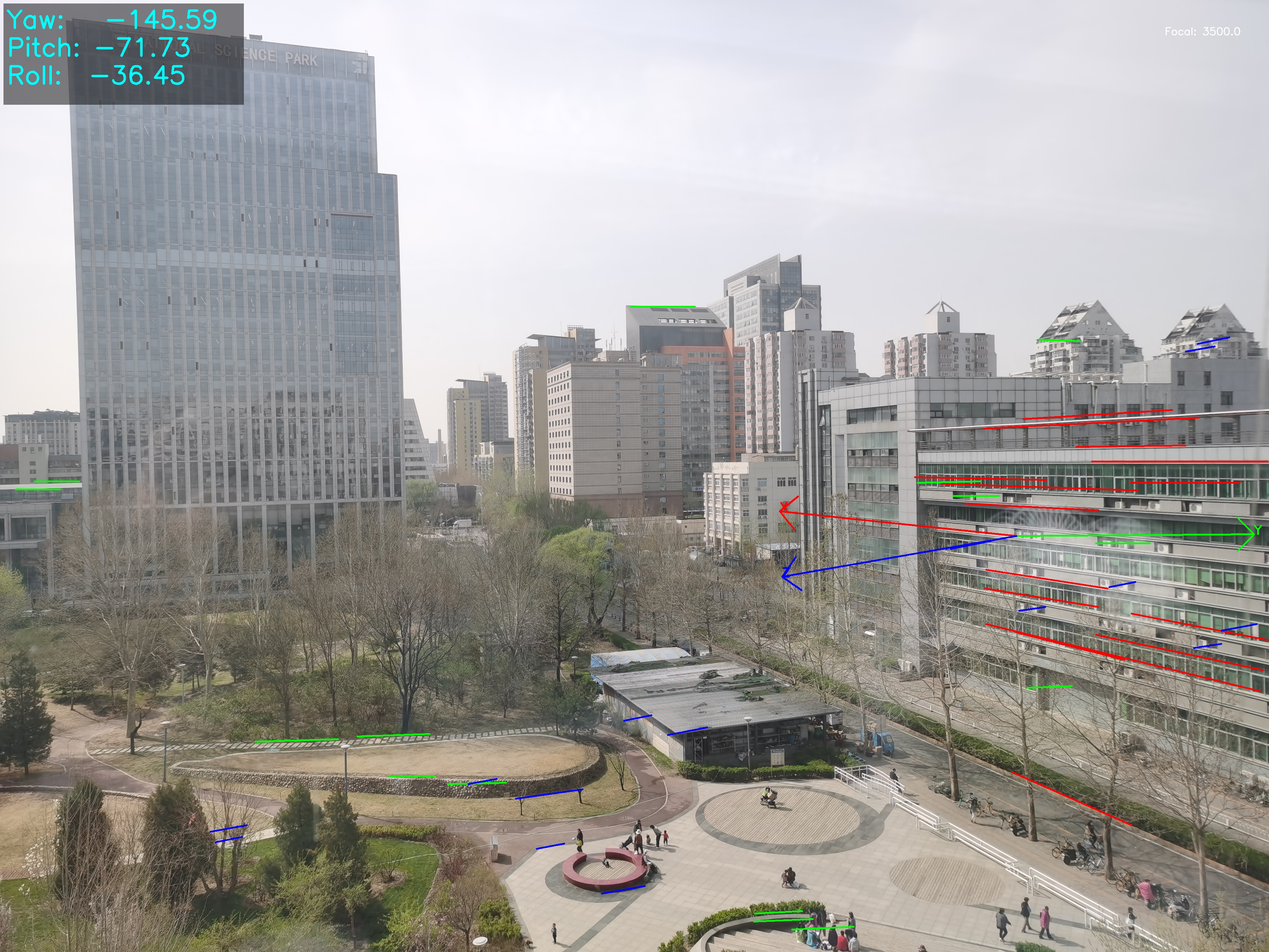
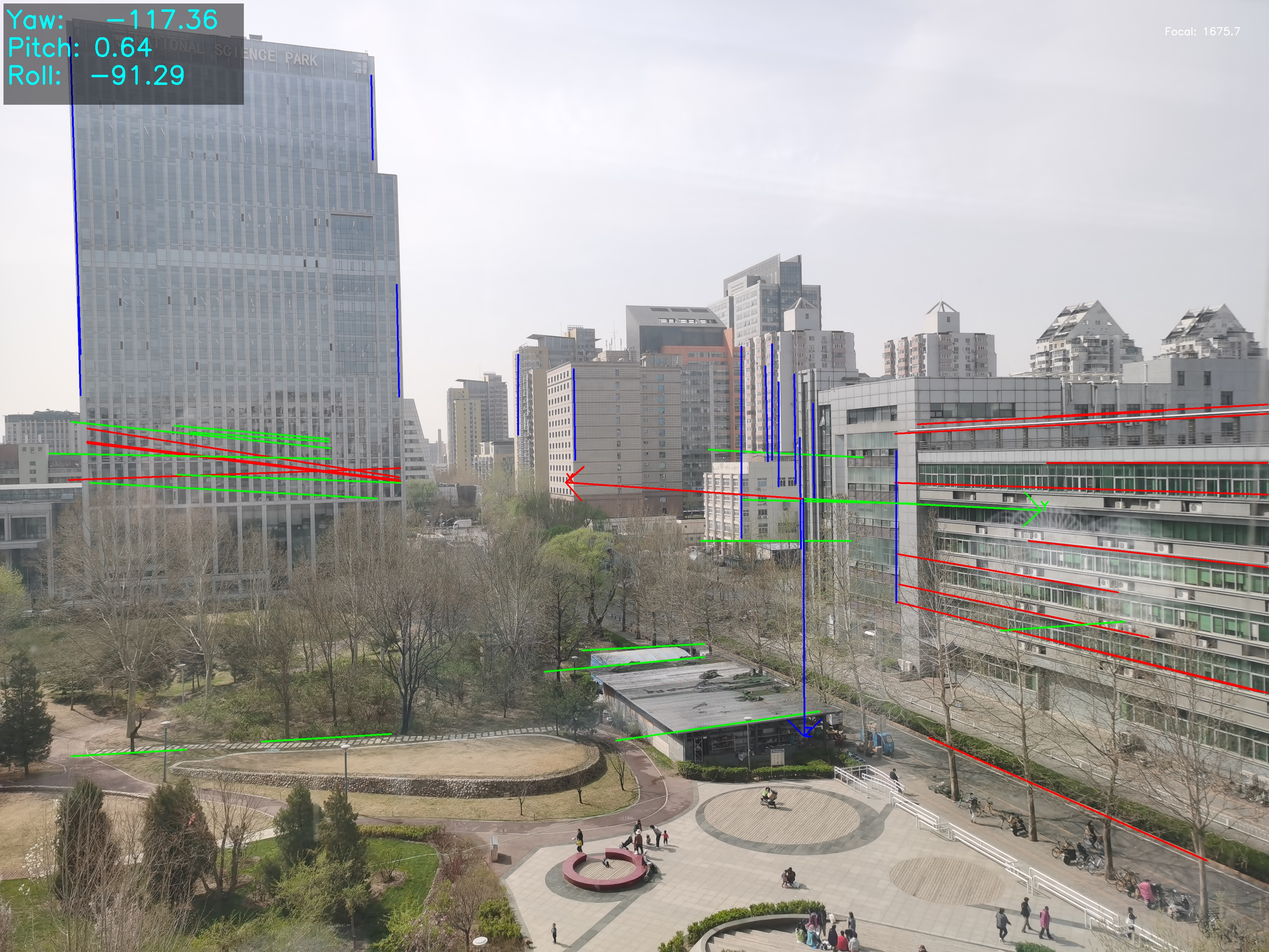
feat: 優化室外與高噪點場景的消失點偵測與座標估計
- 演算法：導入 CLAHE 與 Adaptive Canny (Otsu) 增強邊緣對比度。
- 策略：實作 Angle Partitioning，強制分離垂直線段群，解決室外場景 Z 軸消失點被大量水平結構淹沒的問題。
- 參數：調高 `minLineLength` 過濾非結構雜訊，並放寬原點估計的邊界限制以適應空拍視角。
- 文檔：更新 README.md，加入 5/24 演算法優化紀錄與 Pipeline 資料流圖示，並完成 TODO.md 的 5/24 任務。

diff --git a/src/vp_calib/engine.py b/src/vp_calib/engine.py
@@ -19,7 +19,14 @@ def get_hough_lines_cv(image: np.ndarray, line_length: int, line_gap: int) -> Tu
         gray = cv2.cvtColor(image, cv2.COLOR_RGB2GRAY)
     else:
         gray = image
-    edges = cv2.Canny(gray, 40, 120, apertureSize=3)
+        
+    clahe = cv2.createCLAHE(clipLimit=2.0, tileGridSize=(8, 8))
+    gray_clahe = clahe.apply(gray)
+    
+    high_thresh, _ = cv2.threshold(gray_clahe, 0, 255, cv2.THRESH_BINARY + cv2.THRESH_OTSU)
+    low_thresh = 0.5 * high_thresh
+    edges = cv2.Canny(gray_clahe, low_thresh, high_thresh, apertureSize=3)
+    
     lines = cv2.HoughLinesP(edges, 1, np.pi/180, threshold=50, 
                             minLineLength=line_length, maxLineGap=line_gap)
     if lines is None: return np.array([]), edges
@@ -67,8 +74,8 @@ def estimate_origin_from_inliers(image_shape: Tuple[int, ...], inlier_masks: Lis
             pt = np.cross(L1, L2)
             if abs(pt[2]) > 1e-9:
                 pt /= pt[2]
-                # 交點必須在合理範圍內
-                if 0 <= pt[0] <= w and h * 0.3 <= pt[1] < h - 10:
+                # 交點必須在合理範圍內 (放寬至畫面邊緣與下方)
+                if -w * 0.2 <= pt[0] <= w * 1.2 and h * 0.2 <= pt[1] <= h * 1.2:
                     intersections.append(pt[:2])
     
     if not intersections:
@@ -172,13 +179,28 @@ def get_vp_inliers(image_input: Any, contrast: float, sharpness: float, sigma: f
     enhanced_img = image_enhance(image_small, contrast, sharpness)
     lines_small, edges_small = get_hough_lines_cv(enhanced_img, line_len, line_gap)
     if lines_small.size == 0: return [], [], [full_image, enhanced_img, edges_small, np.array([])]
-    
-    _, i1 = run_vectorized_ransac(lines_small, iterations, threshold)
-    ignore = i1 if i1 is not None else np.zeros(len(lines_small), dtype=bool)
-    _, i2 = run_vectorized_ransac(lines_small, iterations, threshold, ignore_mask=ignore)
-    ignore = np.logical_or(ignore, i2) if i2 is not None else ignore
-    _, i3 = run_vectorized_ransac(lines_small, iterations, threshold, ignore_mask=ignore)
-    
+
+    # Calculate angle to partition into steep (vertical) and shallow (horizontal)
+    dy = np.abs(lines_small[:, 1, 1] - lines_small[:, 0, 1])
+    dx = np.abs(lines_small[:, 1, 0] - lines_small[:, 0, 0])
+    # Vertical lines (steeper than 60 degrees)
+    v_mask = dy > dx * 1.732
+
+    # 1. Z-axis: Force to pick from steep lines
+    ignore_z = ~v_mask
+    _, i1 = run_vectorized_ransac(lines_small, iterations, threshold, ignore_mask=ignore_z)
+    if i1 is None: i1 = np.zeros(len(lines_small), dtype=bool)
+
+    # 2. X-axis: Pick from shallow lines
+    ignore_x = v_mask | i1
+    _, i2 = run_vectorized_ransac(lines_small, iterations, threshold, ignore_mask=ignore_x)
+    if i2 is None: i2 = np.zeros(len(lines_small), dtype=bool)
+
+    # 3. Y-axis: Pick from remaining shallow lines
+    ignore_y = ignore_x | i2
+    _, i3 = run_vectorized_ransac(lines_small, iterations, threshold, ignore_mask=ignore_y)
+    if i3 is None: i3 = np.zeros(len(lines_small), dtype=bool)
+
     def r_r(m, s):
         if m is None or np.sum(m) < 2: return np.array([0, 0, 1.0])
         v_s = refine_vp_svd(lines_small[m])

diff --git a/debug_pipeline.py b/debug_pipeline.py
@@ -1,0 +1,44 @@
+import sys
+import os
+import cv2
+import numpy as np
+
+sys.path.append(os.path.abspath(os.path.join(os.path.dirname(__file__), 'src')))
+
+from vp_calib.engine import get_vp_inliers, draw_inliers
+
+def main():
+    img_path = "data/samples/rt7.jpg"
+    print(f"Running pipeline debug for {img_path}")
+    
+    # Run the get_vp_inliers function with the latest parameters
+    inliers, vps, viz_stuff = get_vp_inliers(
+        img_path, contrast=1.5, sharpness=2.0, sigma=3,
+        iterations=3000, line_len=60, line_gap=15, threshold=2.0,
+        processing_width=960
+    )
+    
+    full_image, enhanced_img, edges_small, lines = viz_stuff
+    
+    os.makedirs("outputs/pipeline", exist_ok=True)
+    
+    # 1. Enhanced Image
+    cv2.imwrite("outputs/pipeline/01_enhanced.jpg", cv2.cvtColor(enhanced_img, cv2.COLOR_RGB2BGR))
+    
+    # 2. Canny Edges
+    cv2.imwrite("outputs/pipeline/02_edges.jpg", edges_small)
+    
+    # 3. All Detected Lines
+    lines_img = full_image.copy()
+    for line in lines:
+        cv2.line(lines_img, tuple(line[0].astype(int)), tuple(line[1].astype(int)), (0, 255, 255), 2)
+    cv2.imwrite("outputs/pipeline/03_all_lines.jpg", cv2.cvtColor(lines_img, cv2.COLOR_RGB2BGR))
+    
+    # 4. RANSAC Inliers
+    inliers_img = draw_inliers(full_image, inliers, lines)
+    cv2.imwrite("outputs/pipeline/04_ransac_inliers.jpg", cv2.cvtColor(inliers_img, cv2.COLOR_RGB2BGR))
+    
+    print("Pipeline images saved in outputs/pipeline/")
+
+if __name__ == "__main__":
+    main()

diff --git a/main.py b/main.py
@@ -42,11 +42,10 @@ def process_single_image(img_path: str, output_path: Optional[str] = None):
     try:
         # 使用與準確版本一致的參數
         inliers, hypothesis_list, viz_stuff = get_vp_inliers(
-            frame, contrast=1.5, sharpness=2.0, sigma=3, 
-            iterations=3000, line_len=11, line_gap=7, threshold=2.0,
+            frame, contrast=1.5, sharpness=2.0, sigma=3,
+            iterations=3000, line_len=60, line_gap=15, threshold=2.0,
             processing_width=960
-        )
-        
+        )        
         pp = np.array([width/2, height/2])
         selected_vps = choose_vanishing_points(hypothesis_list, frame)
         

diff --git a/test_origin.py b/test_origin.py
@@ -1,0 +1,8 @@
+import sys, cv2, os
+sys.path.append(os.path.abspath('src'))
+from vp_calib.engine import get_vp_inliers, estimate_origin_from_inliers
+img = "data/samples/rt0.jpg"
+frame = cv2.imread(img)
+inliers, vps, viz = get_vp_inliers(img, 1.5, 2.0, 3, 3000, 60, 15, 2.0, 960)
+origin = estimate_origin_from_inliers(viz[0].shape, inliers, viz[3])
+print(f"Calculated Origin: {origin}")

diff --git a/README.md b/README.md
@@ -1,3 +1,4 @@
+<!-- 組長 F114112128 吳東穎, 組員 李秉穎 C111112160 -->
 # Vanishing Point Camera Calibration
 本專案利用環境中的幾何線條（如牆角、地磚、建築邊緣）所產生的「消失點（Vanishing Point）」來推算相機的 3D 姿態與焦距標定。
 
@@ -57,22 +58,24 @@ graph TD
 #### 資料流圖 (DFD)
 ```mermaid
 graph LR
-    Img[Image/Frame] --> Pre[Preprocessing: Sigma Blur]
-    Pre --> Line[Hough Line Extractor]
-    Line --> RANSAC[Vectorized RANSAC Solver]
-    RANSAC --> SVD[SVD VP Refinement]
-    SVD --> Origin[Origin Estimator: Lower Intersections]
-    Origin --> Ortho[Manhattan Orthogonalization]
-    Ortho --> Pose[Euler Angle Decomposer]
+    Img[Image/Frame] --> ML[Media Loader: Load Frame]
+    ML --> Pre[Line Extractor: Sigma Blur]
+    Pre --> Line[Line Extractor: Hough Lines]
+    Line --> RANSAC[VP Engine: Vectorized RANSAC Solver]
+    RANSAC --> SVD[VP Engine: SVD VP Refinement]
+    SVD --> Origin[VP Engine: Origin Estimator]
+    Origin --> Ortho[Pose Solver: Manhattan Orthogonalization]
+    Ortho --> Pose[Pose Solver: Euler Angle Decomposer]
     Pose --> Render[Visualizer: Axis Clipping]
     Render --> Out[Rendered Output]
 ```
+![Pipeline Visualization](outputs/rt1_inliers_iter3000_thresh2_sigma5_hlen11_hgap7.png)
 
 #### 循序圖 (MSC Diagram)
 ```mermaid
 sequenceDiagram
     participant M as Main / GUI
-    participant E as Engine (VP/Pose)
+    participant E as VP Engine & Pose Solver
     participant V as Visualizer
 
     M->>E: read_image(path)
@@ -96,11 +99,18 @@ sequenceDiagram
 #### API Table
 | 模組 | 函數名稱 | 輸入 | 輸出 | 核心描述 |
 | :--- | :--- | :--- | :--- | :--- |
-| **Engine** | `get_vp_inliers()` | `ndarray, sigma, iter` | `masks, vps` | 整合 RANSAC 與 SVD 的核心偵測入口 |
-| **Engine** | `refine_vp_svd()` | `ndarray (lines)` | `ndarray (vp)` | 使用奇異值分解從線段集中提取精確消失點 |
-| **Engine** | `estimate_origin_from_inliers()` | `shape, masks, lines` | `list [x, y]` | 尋找下半部 X/Z 線段交點作為地平線原點 |
-| **Solver** | `calculate_rotation_matrix()` | `vps, focal, pp` | `ndarray (3x3)` | Manhattan World 強制正交旋轉矩陣建構 |
-| **Visual** | `draw_axes_on_image()` | `vps, origin, attitude` | `ndarray` | 支援 Axis Clipping 與 Euler 角顯示的渲染器 |
+| **VP Engine** | `get_vp_inliers()` | `ndarray, sigma, iter` | `masks, vps` | 整合 RANSAC 與 SVD 的核心偵測入口 |
+| **VP Engine** | `refine_vp_svd()` | `ndarray (lines)` | `ndarray (vp)` | 使用奇異值分解從線段集中提取精確消失點 |
+| **VP Engine** | `estimate_origin_from_inliers()` | `shape, masks, lines` | `list [x, y]` | 尋找下半部 X/Z 線段交點作為地平線原點 |
+| **Pose Solver** | `calculate_rotation_matrix()` | `vps, focal, pp` | `ndarray (3x3)` | Manhattan World 強制正交旋轉矩陣建構 |
+| **Visualizer** | `draw_axes_on_image()` | `vps, origin, attitude` | `ndarray` | 支援 Axis Clipping 與 Euler 角顯示的渲染器 |
+
+#### 5/24 演算法與參數優化紀錄
+針對室外空拍圖 (`rt0.jpg`) 與高噪點室內圖 (`rt7.jpg`) 的座標系飄移問題，於 5/24 進行了以下核心模組改動：
+1. **動態邊緣閾值與對比度增強**：在 Line Extractor 導入 **CLAHE** (限制對比度自適應直方圖均衡化) 與 **Adaptive Canny (Otsu)**，有效克服室外場景極端光影變化與過曝陰影。
+2. **長度過濾強化**：調高 HoughLines 的 `minLineLength`，將雜亂的樹葉、碎石路與非結構性雜訊線段於早期剔除，保留主要建築物輪廓。
+3. **垂直消失點先驗干預 (Angle Partitioning)**：修改 VP Engine 的抽樣策略，根據線段斜率將傾角大於 60 度的歸類為垂直候選群，**強制 RANSAC 首輪必須從垂直群中抽樣 Z 軸**。解決了室外大樓密集水平窗格導致 Z 軸消失點被淹沒的問題。
+4. **放寬原點估計限制**：修正了 `estimate_origin_from_inliers` 中過於嚴苛的交點邊界，允許原點定位在畫面邊緣甚至稍出界的位置，使 `rt0` 的座標軸起點能正確落在畫面右側大樓邊角。
 
 ---
 
@@ -111,4 +121,3 @@ sequenceDiagram
 | ![rt1_axes](outputs/result_rt1.jpg) | ![rt4_axes](outputs/result_rt4.jpg) | ![rt7_axes](outputs/result_rt7.jpg) |
 | :---: | :---: | :---: |
 | **rt1: 牆角精確對齊** | **rt4: 自動原點估計** | **rt7: 高噪點穩定檢測** |
-

diff --git a/TODO.md b/TODO.md
@@ -1,11 +1,15 @@
-@src/vp_calib/@main.py 1. 處理 的影片 左上角要印 FPS  2. [Image            
-   rt1_axes.png] 左上角的文字要放大2倍  3. 簡查codeʼ以表列建議
+~~@src/vp_calib/@main.py 1. 處理 的影片 左上角要印 FPS  2. [Image            
+   rt1_axes.png] 左上角的文字要放大2倍  3. 簡查codeʼ以表列建議~~
    
    
    
-   [Image result_rt4.jpg] [Image result_rt7.jpg] 發現 座標起點都在中間(錯誤)  
-   ，應當讓 影像下半部的 RANSEC 3 種線段 的 相交點 視為 地平線起點(座標起點)	
+~~[Image result_rt4.jpg] [Image result_rt7.jpg] 發現 座標起點都在中間(錯誤)  
+   ，應當讓 影像下半部的 RANSEC 3 種線段 的 相交點 視為 地平線起點(座標起點)~~	
    
    
-3. 幫我 git push, msg :  室內圖 座標起點都正常 除了 outputs/result_rt0.jpg ，空拍ʼoffice 的 RANSEC 
-不準確，.....
+~~3. 幫我 git push, msg :  室內圖 座標起點都正常 除了 outputs/result_rt0.jpg ，空拍ʼoffice 的 RANSEC 
+不準確，.....~~
+
+### 5/24
+~~1. 檢查 @README.md Breakdown 的模組名稱 要與 dataflow diagram, API table 的 模組名稱一樣~~
+~~2. 針對 outputs/result_rt0.jpg 室外風景 ，構思 要追加的影像處理算法or參數~~
